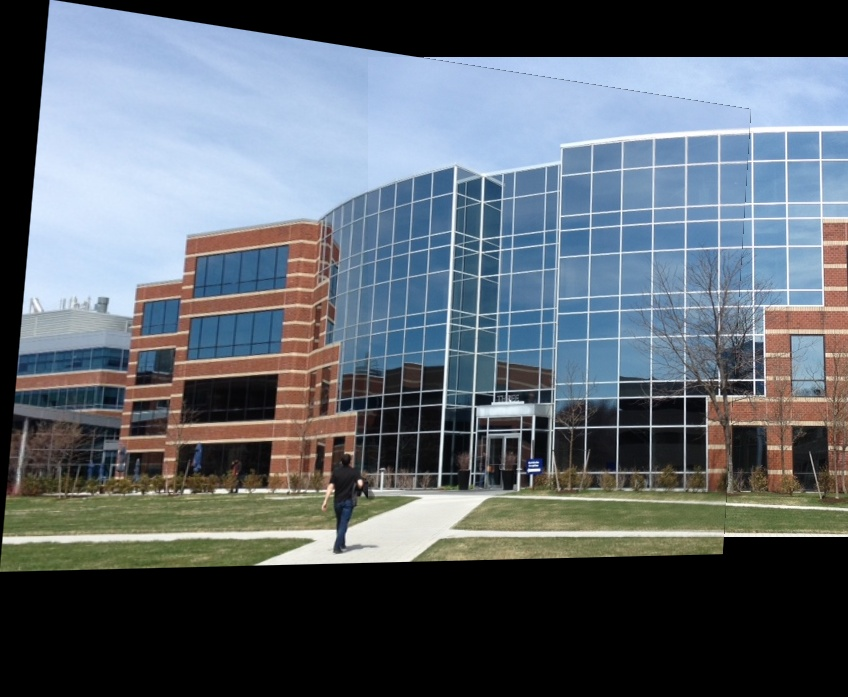
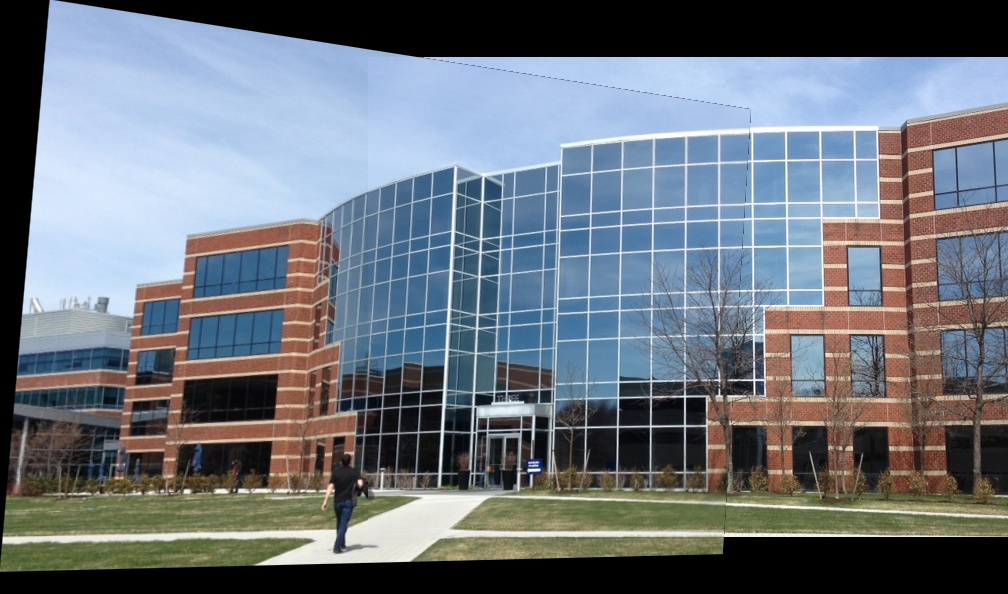
Correção do panorama com duas imagens

diff --git a/trabalho3/main.py b/trabalho3/main.py
@@ -22,15 +22,17 @@ def get_size(img, M):
 	min_w = int(min(p1[0], p3[0]))
 	max_w = int(max(p2[0], p4[0]))
 
-	new_w = max_w - min_w
-	new_h = max_h - min_h
+	# new_w = max_w - min_w
+	# new_h = max_h - min_h
 
-	return (min_w, min_h, new_w, new_h)
+	# return (min_w, min_h, new_w, new_h)
+	return (min_w, min_h, max_w, max_h)
 
 
 def main():
 	# imgs = [ cv2.imread('data/%d.jpeg' % i) for i in range(1, 6) ]
 	imgs = [ cv2.imread('data/%d.jpeg' % i) for i in range(1, 3) ]
+	# imgs = [ cv2.imread('data/%d.jpeg' % i) for i in range(1, 4) ]
 
 	grays = [ cv2.cvtColor(i, cv2.COLOR_BGR2GRAY) for i in imgs ]
 
@@ -42,7 +44,7 @@ def main():
 
 	matches = [ bf.match(kp_des[i][1], kp_des[i+1][1]) for i in range(len(kp_des) - 1) ]
 
-	trs = [ None ] * len(matches)
+	# trs = [ None ] * len(matches)
 	Ms = [ None ] * len(matches)
 	bounds = [ None ] * len(matches)
 
@@ -64,20 +66,85 @@ def main():
 
 			M, mask = cv2.findHomography(src_pts, dst_pts, cv2.RANSAC, 5.0)
 
-			(min_w, min_h, new_w, new_h) = get_size(imgs[i], M)
+			(min_w, min_h, new_w, new_h) = bounds[i] = get_size(imgs[i], M)
+
+			# tr = np.identity(3)
+			# tr[:, 2] = [ -min_w, -min_h, 1 ]
+
+			# trs[i] = tr
+			Ms[i] = M
+			# bounds[i] = imgs[i]
+
+
+
+			# # tmp = cv2.warpPerspective(imgs[i], tr @ M, dsize=(new_w, new_h))
+			# tmp = cv2.warpPerspective(imgs[i], tr @ M, dsize=(imgs[i+1].shape[0] - min_w, imgs[i+1].shape[1] - min_h))
+			# tmp2 = cv2.warpPerspective(imgs[i+1], tr, dsize=(imgs[i+1].shape[0] - min_w, imgs[i+1].shape[1] - min_h))
+			# # tmp = cv2.warpPerspective(imgs[i], M, dsize=(w, h))
+
+			# mask1 = tmp.sum(axis=2).astype(bool)
+			# mask2 = tmp2.sum(axis=2).astype(bool)
+
+			# mask = np.logical_and(mask1, mask2)
+
+			# # print(mask2)
+			# # np.ma.array(tmp + tmp2, mask=)
+
+			# # tmp3 = np.zeros(tmp2.shape)
+
+			# t1 = tmp.copy()
+			# t2 = tmp2.copy()
+
+			# t1[ mask ] //= 2
+			# t2[ mask ] //= 2
+
+			# tmp3 = t1 + t2
+			
+			# # cv2.imwrite("result2_%d.jpg" % (i+1,), tmp)
+			# # cv2.imwrite("result3_%d.jpg" % (i+1,), tmp2)
+			# cv2.imwrite("panorama.jpg", tmp3)
+
+
+
+		# first = len(imgs) // 2
+		first = len(imgs) - 1
+		curr_M = np.identity(3)
+		curr_tr = np.identity(3)
+
+		curr_img = imgs[first]
+		
+		
+
+		# for i in range(first, len(Ms)):
+		for i in range(first-1, -1, -1):
+
+			# (min_w, min_h, new_w, new_h) = bounds[i]
 
 			tr = np.identity(3)
 			tr[:, 2] = [ -min_w, -min_h, 1 ]
+			curr_tr = curr_tr @ tr
 
-			trs[i] = tr
-			Ms[i] = M
+			# (curr_min_w, curr_min_h, curr_new_w, curr_new_h) = get_size(curr_img, curr_tr @ curr_M)
+			# (min_w, min_h, new_w, new_h) = get_size(imgs[i], curr_M @ Ms[i])
 
-			# tmp = cv2.warpPerspective(imgs[i], tr @ M, dsize=(new_w, new_h))
-			tmp = cv2.warpPerspective(imgs[i], tr @ M, dsize=(imgs[i+1].shape[0] - min_w, imgs[i+1].shape[1] - min_h))
-			tmp2 = cv2.warpPerspective(imgs[i+1], tr, dsize=(imgs[i+1].shape[0] - min_w, imgs[i+1].shape[1] - min_h))
-			# tmp = cv2.warpPerspective(imgs[i], M, dsize=(w, h))
+			(curr_min_w, curr_min_h, curr_max_w, curr_max_h) = get_size(curr_img, curr_tr @ curr_M)
+			(new_min_w, new_min_h, new_max_w, new_max_h) = get_size(imgs[i], curr_M @ Ms[i])
 
-			mask1 = tmp.sum(axis=2).astype(bool)
+			# print(min_w, min_h, new_w, new_h)
+			min_w = min(curr_min_w, new_min_w)
+			max_w = max(curr_max_w, new_max_w)
+
+			min_h = min(curr_min_h, new_min_h)
+			max_h = max(curr_max_h, new_max_h)
+
+
+			tmp1 = cv2.warpPerspective(imgs[i], curr_tr @ curr_M @ Ms[i], dsize=( (max_w-min_w)+min_w, (max_h-min_h) ))
+			# tmp1 = cv2.warpPerspective(imgs[i], curr_M @ Ms[i], dsize=( (max_w-min_w)+min_w, (max_h-min_h)+min_h ))
+			tmp2 = cv2.warpPerspective(curr_img, curr_tr @ curr_M, dsize=((max_w-min_w)+min_w, (max_h-min_h) ))
+
+
+
+			mask1 = tmp1.sum(axis=2).astype(bool)
 			mask2 = tmp2.sum(axis=2).astype(bool)
 
 			mask = np.logical_and(mask1, mask2)
@@ -87,25 +154,15 @@ def main():
 
 			# tmp3 = np.zeros(tmp2.shape)
 
-			t1 = tmp.copy()
-			t2 = tmp2.copy()
+			tmp1[ mask ] //= 2
+			tmp2[ mask ] //= 2
 
-			t1[ mask ] //= 2
-			t2[ mask ] //= 2
-
-			tmp3 = t1 + t2
-			# tmp3 = tmp + tmp2
-
-			# tmp3[ mask ] //= 2
-
+			tmp3 = tmp1 + tmp2
 			
-			# tmp3[-min_h:-1, -min_w:-1] = tmp2
-			# tmp3 += tmp2
-			# tmp3[0:new_h, 0:new_w] = tmp
-
-			# cv2.imwrite("result2_%d.jpg" % (i+1,), tmp)
+			# cv2.imwrite("result_abc_%d.jpg" % (i+1,), tmp2)
 			# cv2.imwrite("result3_%d.jpg" % (i+1,), tmp2)
 			cv2.imwrite("panorama.jpg", tmp3)
+
 
 		# src_pts = np.float32([ kp1[m.queryIdx].pt for m in matches ]).reshape(-1,1,2)
 		# dst_pts = np.float32([ kp2[m.trainIdx].pt for m in matches ]).reshape(-1,1,2)
